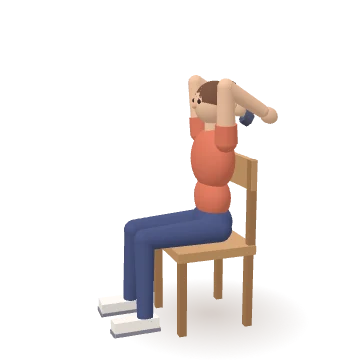
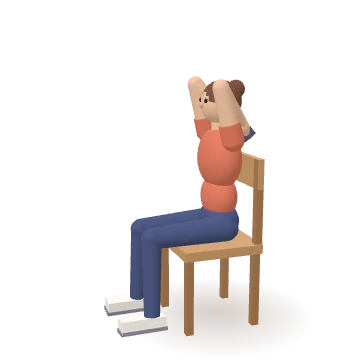
Corrige movimientos con mancuernas y añade fotos reales en secuencia
- Mancuernas con la misma empuñadura todo el movimiento (sin giro de muñeca)
- Peso muerto con subida: remo al pecho con codos hacia fuera
- Sentadilla con press: mancuernas apoyadas en los hombros y press vertical
- Tríceps por encima de la cabeza: una mancuerna con las dos manos detrás de la cabeza
- Fotos reales paso a paso para los ejercicios combinados y la plancha

Claude-Session: https://claude.ai/code/session_01VezrFMdeigC6m4YvnxJoxX

diff --git a/js/data.js b/js/data.js
@@ -1070,12 +1070,20 @@ const EXERCISES = [
 
 /* Ejercicios con fotos reales (img/fotos/<id>-0.jpg y -1.jpg).
    Fuente: free-exercise-db (dominio público, Unlicense). */
-const PHOTOS = new Set(["squat", "goblet-squat", "sumo-squat", "split-squat", "glute-bridge", "rdl", "bent-row", "db-row", "pull-apart", "prone-extension", "shrug", "floor-press", "db-shoulder-press", "lateral-raise", "front-raise", "scaption", "band-external-rotation", "band-shoulder-press", "band-lateral-raise", "biceps-curl", "hammer-curl", "seated-curl", "overhead-triceps", "triceps-kickback", "dead-bug", "crunch", "child-pose", "cat-cow", "neck-stretch", "arm-circles", "ankle-circles"]);
+const PHOTOS = new Set(["squat", "goblet-squat", "sumo-squat", "split-squat", "glute-bridge", "rdl", "bent-row", "db-row", "pull-apart", "prone-extension", "shrug", "floor-press", "db-shoulder-press", "lateral-raise", "front-raise", "scaption", "band-external-rotation", "band-shoulder-press", "band-lateral-raise", "biceps-curl", "hammer-curl", "seated-curl", "overhead-triceps", "triceps-kickback", "dead-bug", "crunch", "child-pose", "cat-cow", "neck-stretch", "arm-circles", "ankle-circles", "squat-press", "rdl-row", "reverse-lunge-curl", "plank"]);
 
 /* ---------------- CATEGORÍAS Y RUTINAS ----------------
    Cada rutina tiene 4 o 5 ejercicios.
    Un ejercicio puede escribirse como "id" (usa series y cantidad por defecto)
    o como ["id", series, repeticiones-o-segundos].                         */
+/* Fotos en secuencia (ejercicios combinados): texto de cada foto. Por defecto: inicio y final. */
+const PHOTO_SEQ = {
+  "squat-press": ["1 · De pie", "2 · Baja en sentadilla", "3 · Mancuernas a los hombros", "4 · Empuja hacia arriba"],
+  "rdl-row": ["1 · De pie", "2 · Baja con la espalda recta", "3 · Sube y quédate de pie", "4 · Sube las mancuernas al pecho"],
+  "reverse-lunge-curl": ["1 · De pie", "2 · Paso atrás y baja", "3 · Vuelve a juntar los pies", "4 · Curl de bíceps"],
+  "plank": ["Cuerpo recto, sobre antebrazos y puntas"],
+};
+
 const CATEGORIES = [
   // color: acento · bg: fondo pastel
   { id: "full",       name: "Cuerpo completo",   emoji: "⭐", color: "#7B68D9", bg: "#ECE7FC", desc: "Un poco de todo en cada sesión", rest: 45 },

diff --git a/js/app.js b/js/app.js
@@ -323,12 +323,25 @@
       ? `<a class="ex-item" href="#/ejercicio/${ex.id}">${inner}${CHEV}</a>`
       : `<div class="ex-item">${inner}</div>`;
   }
+  function photoAnim(ex) {
+    const caps = PHOTO_SEQ[ex.id] || ["Inicio", "Final"];
+    return `<div class="photo-anim" hidden data-n="${caps.length}">${caps.map((c, k) =>
+      `<figure class="${k ? "" : "on"}"><img src="img/fotos/${ex.id}-${k}.jpg" alt="${esc(c)}" loading="lazy"><figcaption>${esc(c)}</figcaption></figure>`).join("")}</div>`;
+  }
+  // las fotos van pasando solas
+  setInterval(() => {
+    document.querySelectorAll(".photo-anim:not([hidden])").forEach((pa) => {
+      const f = [...pa.children]; if (f.length < 2) return;
+      const k = f.findIndex((x) => x.classList.contains("on"));
+      f[k]?.classList.remove("on"); f[(k + 1) % f.length].classList.add("on");
+    });
+  }, 1700);
   function viewerBlock(ex) {
     const hasPhoto = PHOTOS.has(ex.id);
     return `<div class="viewer">
       ${hasPhoto ? `<div class="seg viewer-tabs"><button class="on" data-act="vt" data-v="3d">Muñeco 3D</button><button data-act="vt" data-v="foto">Fotos reales</button></div>` : ""}
       ${figBox(ex.id, "big")}
-      ${hasPhoto ? `<div class="photo-anim" hidden><img src="img/fotos/${ex.id}-0.jpg" alt="Posición inicial"><img class="b" src="img/fotos/${ex.id}-1.jpg" alt="Posición final"></div>` : ""}
+      ${hasPhoto ? photoAnim(ex) : ""}
       <div class="viewer-ctrl"><span class="small muted" data-hint>👆 Arrastra para girar el muñeco</span>
         <button class="btn ghost small" data-act="slow">${figSlow ? "🐇 Velocidad normal" : "🐢 Más despacio"}</button></div>
     </div>`;
@@ -1751,7 +1764,7 @@
       const v = el.closest(".viewer"), foto = el.dataset.v === "foto";
       $$("[data-act='vt']", v).forEach((b) => b.classList.toggle("on", b === el));
       $(".fig3d", v).hidden = foto; $(".photo-anim", v).hidden = !foto;
-      $("[data-hint]", v).textContent = foto ? "📷 Fotos de una persona real (inicio y final)" : "👆 Arrastra para girar el muñeco";
+      $("[data-hint]", v).textContent = foto ? "📷 Fotos de una persona real" : "👆 Arrastra para girar el muñeco";
     },
     "slow": (el) => {
       figSlow = !figSlow;

diff --git a/js/anims.js b/js/anims.js
@@ -325,8 +325,8 @@
     "overhead-triceps": {
       ...SEAT_OPTS, cam: 70, props: [{ type: "chair" }, { type: "single" }],
       frames: [
-        P(SEATED, { shL: [172, -6, 0], shR: [172, -6, 0], elL: 14, elR: 14 }),
-        P(SEATED, { shL: [176, -6, 0], shR: [176, -6, 0], elL: 125, elR: 125 }),
+        P(SEATED, { shL: [170, 0, -40], shR: [170, 0, -40], elL: 18, elR: 18 }),
+        P(SEATED, { shL: [165, 0, -40], shR: [165, 0, -40], elL: 150, elR: 150 }),
       ],
     },
     "triceps-kickback": {
@@ -373,20 +373,20 @@
     },
     /* ----- Ejercicios de la rutina habitual ----- */
     "squat-press": {
-      cam: 35, props: [DB],
+      cam: 35, props: [{ type: "dumbbells", level: "z" }],
       frames: [
-        { shL: [6, 88, 90], shR: [6, 88, 90], elL: 100, elR: 100 },
-        { hipL: [80, 10, 6], hipR: [80, 10, 6], kneeL: 90, kneeR: 90, ankleL: -18, ankleR: -18, spine: [24, 0, 0], shL: [6, 88, 90], shR: [6, 88, 90], elL: 100, elR: 100 },
-        { shL: [6, 166, 90], shR: [6, 166, 90], elL: 10, elR: 10 },
+        { shL: [25, 40, 0], shR: [25, 40, 0], elL: 135, elR: 135 },
+        { hipL: [84, 12, 8], hipR: [84, 12, 8], kneeL: 92, kneeR: 92, ankleL: -20, ankleR: -20, spine: [26, 0, 0], shL: [0, 40, 0], shR: [0, 40, 0], elL: 135, elR: 135 },
+        { shL: [170, -6, 0], shR: [170, -6, 0], elL: 6, elR: 6 },
       ],
       seq: [0, 1, 0, 2], move: 1.0, hold: 0.3,
     },
     "rdl-row": {
-      cam: 40, props: [DB],
+      cam: 40, props: [{ type: "dumbbells", level: "x" }],
       frames: [
-        { shL: [4, 4, 0], shR: [4, 4, 0], elL: 0, elR: 0 },
-        { rot: [62, 0, 0], hipL: [72, 4, 0], hipR: [72, 4, 0], kneeL: 20, kneeR: 20, ankleL: -10, ankleR: -10, shL: [62, 4, 0], shR: [62, 4, 0], elL: 0, elR: 0, neck: [-20, 0, 0] },
-        { shL: [10, 85, -90], shR: [10, 85, -90], elL: 135, elR: 135 },
+        { shL: [6, 4, -90], shR: [6, 4, -90], elL: 0, elR: 0 },
+        { rot: [62, 0, 0], hipL: [72, 4, 0], hipR: [72, 4, 0], kneeL: 20, kneeR: 20, ankleL: -10, ankleR: -10, shL: [62, 4, -90], shR: [62, 4, -90], elL: 0, elR: 0, neck: [-20, 0, 0] },
+        { shL: [25, 92, -80], shR: [25, 92, -80], elL: 150, elR: 150 },
       ],
       seq: [0, 1, 0, 2], move: 1.0, hold: 0.35,
     },

diff --git a/js/figure3d.js b/js/figure3d.js
@@ -465,7 +465,7 @@
     }
 
     // accesorios
-    const bands = [];
+    const bands = [], levelDbs = [];
     (anim.props || []).forEach((pr) => {
       const t = typeof pr === "string" ? { type: pr } : pr;
       let o = null;
@@ -479,6 +479,8 @@
           db.position.set(0, -0.055, 0);
           if (t.grip === "neutral") db.rotation.y = Math.PI / 2;
           body.j["wr" + s].add(db);
+          // level: la barra de la mancuerna no gira con el antebrazo (misma empuñadura todo el ejercicio)
+          if (t.level) levelDbs.push({ db, yaw: t.level === "z" ? Math.PI / 2 : 0 });
         });
       } else if (t.type === "goblet") {          // una mancuerna vertical pegada al pecho
         const db = buildDumbbell(); db.rotation.z = Math.PI / 2;
@@ -544,6 +546,11 @@
       const s = Math.max(0.6, 1.1 - pel.y * 0.2);
       shadow.position.set(pel.x, 0.002, pel.z); shadow.scale.set(s * 1.1, s * (anim.lying ? 2 : 1.1), 1);
       bands.forEach(({ m, lk }) => placeBand(m, pointFor(lk[0]), pointFor(lk[1])));
+      levelDbs.forEach(({ db, yaw }) => {
+        const qp = db.parent.getWorldQuaternion(new THREE.Quaternion()).invert();
+        const qr = body.root.getWorldQuaternion(new THREE.Quaternion());
+        db.quaternion.copy(qp.multiply(qr).multiply(new THREE.Quaternion().setFromAxisAngle(new THREE.Vector3(0, 1, 0), yaw)));
+      });
     }
 
     // encuadre: mide la figura en todos los fotogramas

diff --git a/css/styles.css b/css/styles.css
@@ -282,7 +282,9 @@ main { max-width: 680px; margin: 0 auto; padding: 4px 18px 18px; outline: none; 
 .viewer-ctrl { display: flex; align-items: center; justify-content: space-between; gap: 10px; flex-wrap: wrap; }
 .photo-anim { position: relative; border-radius: var(--radius); overflow: hidden; background: #111; }
 .photo-anim img { position: absolute; inset: 0; width: 100%; height: 100%; object-fit: contain; }
-.photo-anim img.b { animation: xfade 2.6s ease-in-out infinite; }
+.photo-anim figure { position: absolute; inset: 0; margin: 0; opacity: 0; transition: opacity .6s ease; }
+.photo-anim figure.on { opacity: 1; }
+.photo-anim figcaption { position: absolute; left: 10px; top: 10px; background: rgba(255,255,255,.92); color: #222; font-weight: 800; font-size: .95rem; padding: 5px 12px; border-radius: 999px; }
 @keyframes xfade { 0%, 30% { opacity: 0; } 50%, 80% { opacity: 1; } 100% { opacity: 0; } }
 .video-box { border-radius: var(--radius); overflow: hidden; background: #000; aspect-ratio: 16 / 9; }
 .video-box iframe { width: 100%; height: 100%; border: 0; display: block; }

diff --git a/sw.js b/sw.js
@@ -1,6 +1,6 @@
 /* Service worker: permite usar la app sin conexión.
    Si cambias archivos, sube el número de versión. */
-const CACHE = "mi-gimnasio-v18";
+const CACHE = "mi-gimnasio-v19";
 const ASSETS = [
   "./", "index.html", "css/styles.css", "js/data.js", "js/app.js",
   "js/anims.js", "js/figure3d.js", "vendor/three.min.js",
